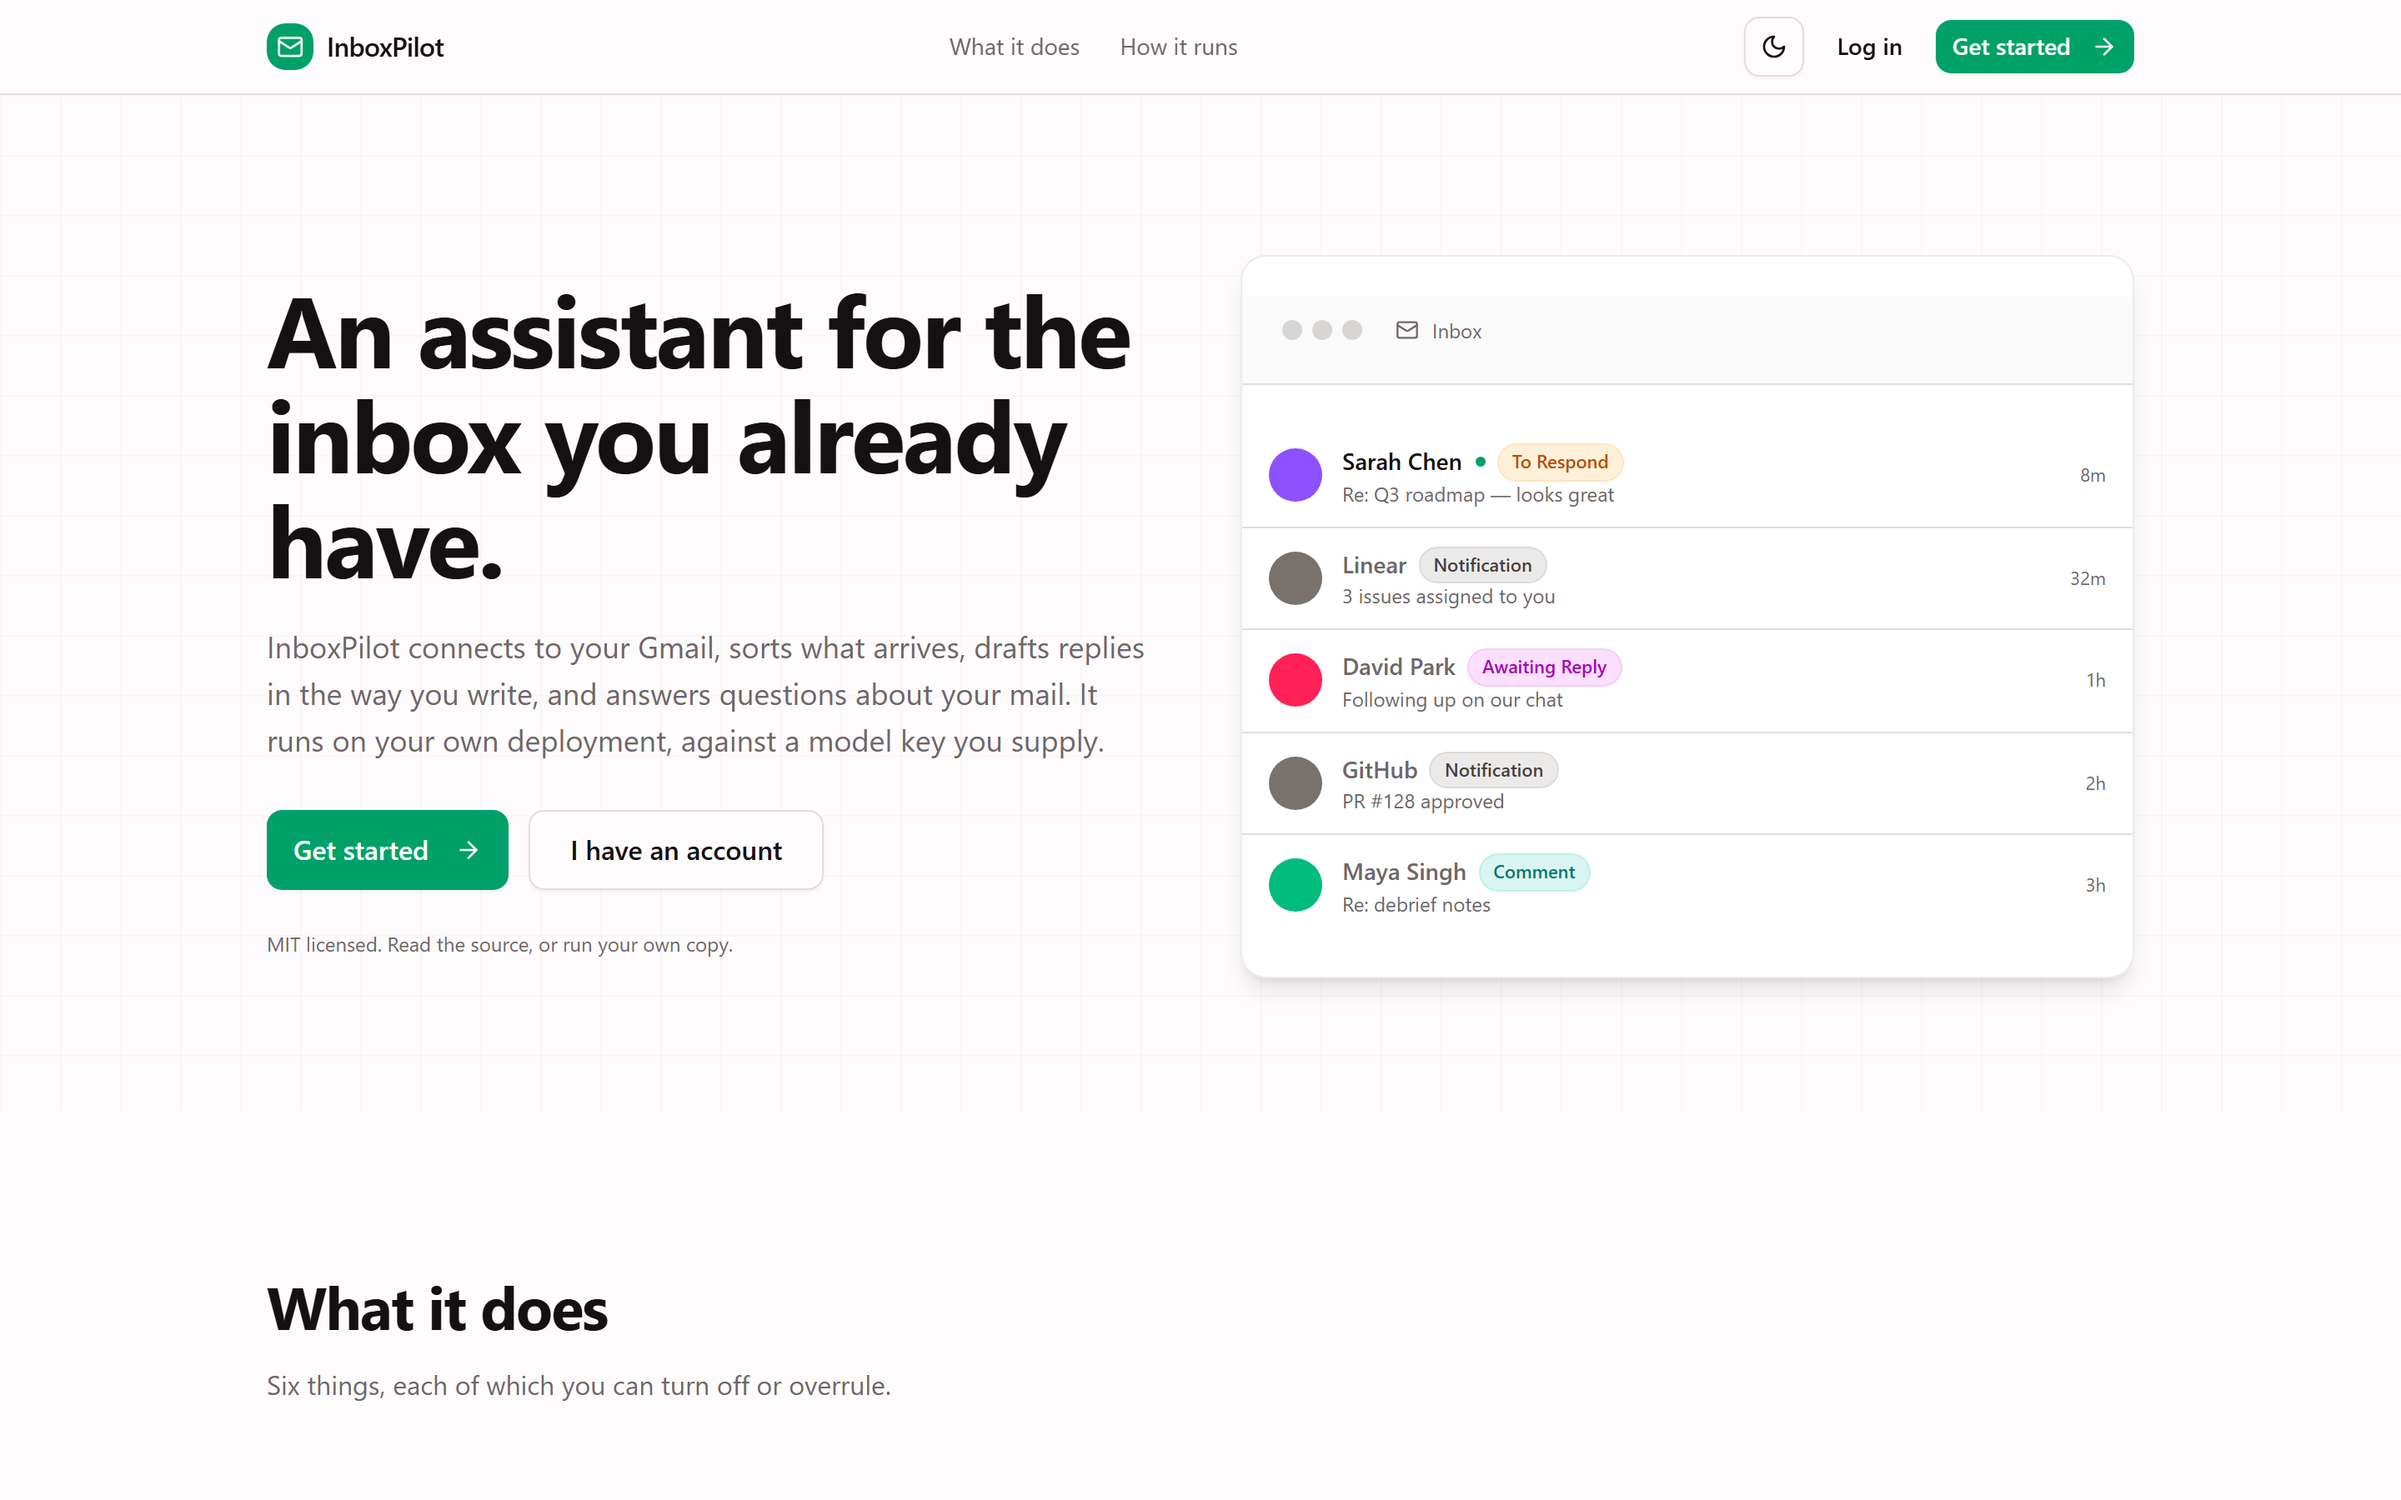
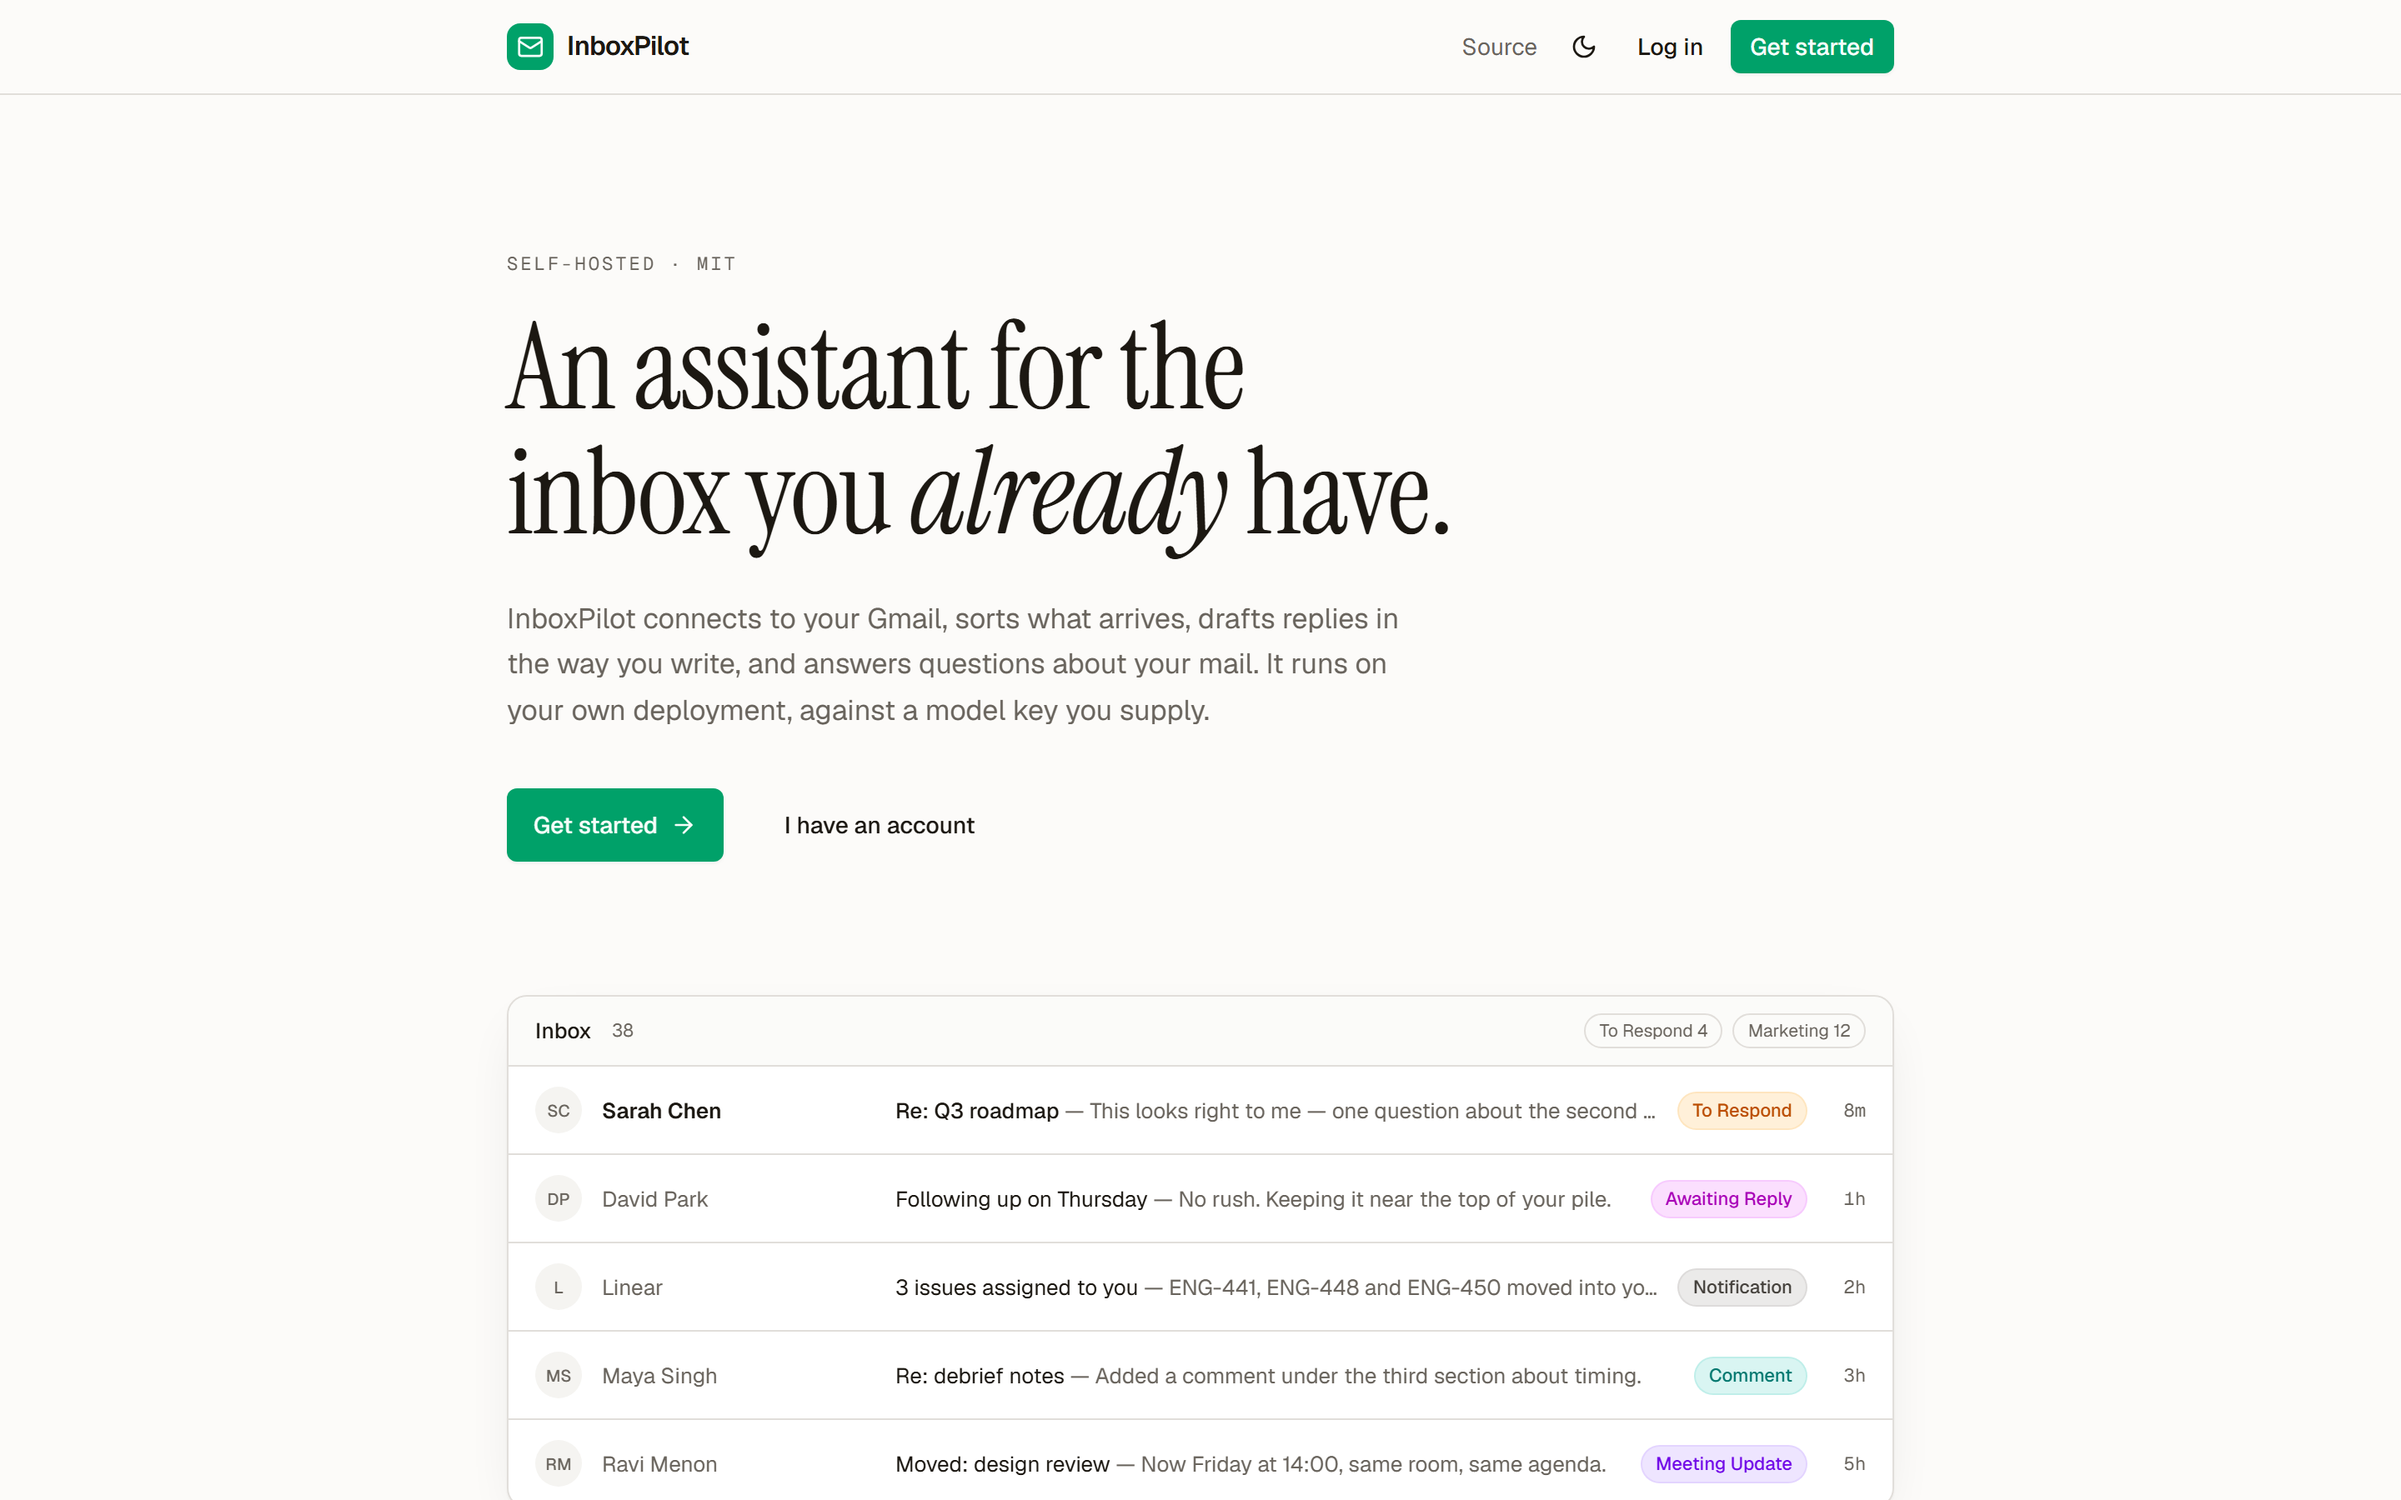
Move Vela up to the third project
Slate takes Vela's old spot in the marquee. Re-shot Vela and
InboxPilot at 2880x1800 so Vela matches the other featured shots.

Claude-Session: https://claude.ai/code/session_017g21dGfE8K766AnwYg9Uhf

diff --git a/index.html b/index.html
@@ -127,24 +127,24 @@
       <article class="project">
         <div class="project-body">
           <p class="project-index">03</p>
-          <h3 class="project-title">Slate</h3>
+          <h3 class="project-title">Vela</h3>
           <p class="project-desc">
-            A whiteboard a few people can draw on at the same time, with a 3D editor built into it.
-            Edits show up live for everyone, and you can talk to each other while you work. It
-            installs like a normal app and keeps a copy of your boards on your machine, so the
-            server going down doesn't cost you anything.
+            A browser with the tracking taken out. Ad and tracker blocking is on before you open
+            the first tab, there's a local AI assistant in the sidebar, and your history and
+            bookmarks sit in one file on your machine that you can open and read yourself. It
+            makes two kinds of request: the pages you ask for, and one check for a new version.
           </p>
           <dl class="meta">
-            <div><dt>Built with</dt><dd>TypeScript, Yjs, WebRTC, Fastify</dd></div>
-            <div><dt>Does</dt><dd>2D and 3D editing, voice chat, offline</dd></div>
+            <div><dt>Built with</dt><dd>Electron, TypeScript, Chromium</dd></div>
+            <div><dt>Sends</dt><dd>The pages you open, and one update check</dd></div>
           </dl>
-          <a class="project-link" href="https://slate-client.vercel.app/" target="_blank" rel="noopener">
-            Open Slate<span aria-hidden="true">&#8594;</span>
+          <a class="project-link" href="https://jeffreyhamilton6399.github.io/vela/" target="_blank" rel="noopener">
+            Download Vela<span aria-hidden="true">&#8594;</span>
           </a>
         </div>
         <figure class="project-shot">
-          <img src="assets/shots/slate.png" width="1600" height="900" loading="lazy" decoding="async"
-               alt="Slate's 3D editor: a white mesh on a purple grid, with hierarchy and properties panels, and a live collaborator cursor labelled Jeffy.">
+          <img src="assets/shots/vela.png" width="2880" height="1800" loading="lazy" decoding="async"
+               alt="Vela's landing page: a browser that collects nothing, with downloads for Windows, macOS and Linux, above a shot of the browser reporting 14 trackers blocked on a search page.">
         </figure>
       </article>
 
@@ -167,19 +167,19 @@
         <ul class="marquee-track" role="list">
 
           <li>
-            <a class="card" href="https://jeffreyhamilton6399.github.io/vela/" target="_blank" rel="noopener">
+            <a class="card" href="https://slate-client.vercel.app/" target="_blank" rel="noopener">
               <span class="card-shot">
-                <img src="assets/shots/vela.png" width="2880" height="1800" loading="lazy" decoding="async"
-                     alt="Vela's landing page: a browser that collects nothing, with download buttons for Windows, macOS and Linux.">
+                <img src="assets/shots/slate.png" width="1600" height="900" loading="lazy" decoding="async"
+                     alt="Slate's 3D editor: a white mesh on a purple grid, with hierarchy and properties panels, and a live collaborator cursor labelled Jeffy.">
               </span>
               <span class="card-body">
-                <span class="card-title">Vela</span>
+                <span class="card-title">Slate</span>
                 <span class="card-desc">
-                  A browser that doesn't collect anything. Ad and tracker blocking is built in,
-                  there's a local AI assistant in the sidebar, and everything it saves goes into
-                  one file you can open and read yourself.
+                  A whiteboard a few people can draw on at the same time, with a 3D editor built
+                  into it. Edits show up live for everyone, you can talk while you work, and a
+                  copy of every board stays on your machine.
                 </span>
-                <span class="card-tech">Electron &middot; TypeScript</span>
+                <span class="card-tech">Yjs &middot; WebRTC</span>
               </span>
             </a>
           </li>
